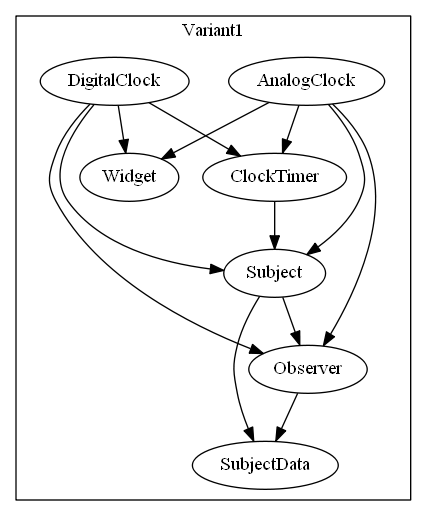
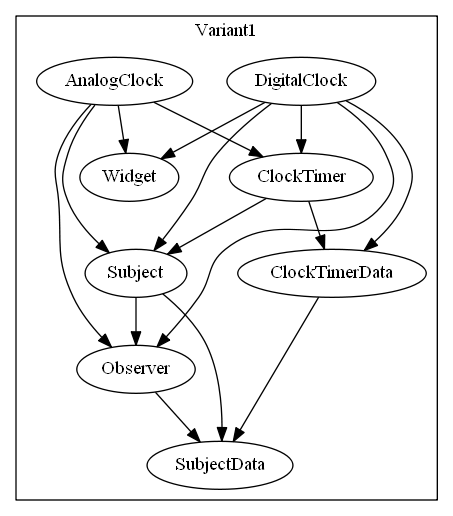
More splitting of Observer to make sense

diff --git a/Observer/Variant1.h b/Observer/Variant1.h
@@ -4,7 +4,10 @@
 
 namespace ObserverPattern::Variant1
 {
-	class SubjectData {};
+	class SubjectData {
+	public:
+		virtual ~SubjectData() {}
+	};
 
 	class Observer {
 	public:
@@ -20,8 +23,10 @@ namespace ObserverPattern::Variant1
 		virtual void Attach(Observer*);
 		virtual void Detach(Observer*);
 		virtual void Notify();
+
+		SubjectData* Data() { return _data; }
 	protected:
-		Subject() {}
+		Subject(SubjectData* data) : _data(data) {}
 	private:
 		SubjectData* _data;
 		std::vector<Observer*> _observers;
@@ -38,12 +43,17 @@ namespace ObserverPattern::Variant1
 		}
 	}
 
-	class ClockTimer : public Subject {
+	class ClockTimerData : public SubjectData {
 	public:
-		ClockTimer() {}
+		ClockTimerData() {}
 		virtual int GetHour() { return 0; }
 		virtual int GetMinute() { return 0; }
 		virtual int GetSecond() { return 0; }
+	};
+
+	class ClockTimer : public Subject {
+	public:
+		ClockTimer() : Subject(new ClockTimerData()) {}
 		void Tick();
 	};
 
@@ -85,8 +95,8 @@ namespace ObserverPattern::Variant1
 
 	void DigitalClock::Draw() {
 		// get the new values from the subject  
-		int hour = _subject->GetHour();
-		int minute = _subject->GetMinute();
+		int hour = dynamic_cast<ClockTimerData*>(_subject->Data())->GetHour();
+		int minute = dynamic_cast<ClockTimerData*>(_subject->Data())->GetMinute();
 		// etc.  
 		// draw the digital clock 
 	}
